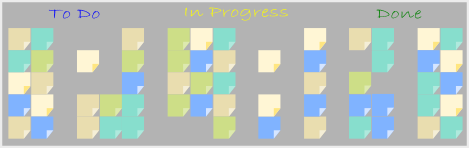
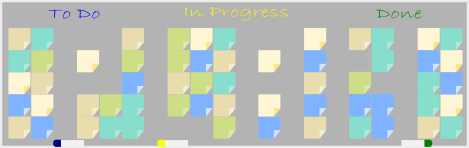
added jan and feb stickers to post

Changed region(s): [[0.8358, 0.9189, 0.9254, 1.0], [0.3284, 0.9189, 0.4179, 1.0], [0.0896, 0.9459, 0.1791, 1.0]]

diff --git a/content/post/sticker-driven-maintenance/index.md b/content/post/sticker-driven-maintenance/index.md
@@ -26,7 +26,7 @@ image:
 #   E.g. `projects = ["internal-project"]` references `content/project/deep-learning/index.md`.
 #   Otherwise, set `projects = []`.
 projects: [""]
-rmd_hash: ab697101cf217bb9
+rmd_hash: 810ee3d8b20baca7
 
 ---
 
@@ -74,6 +74,22 @@ Alternatively, your code "naughty or nice"? Santa makes his list and checks it t
 For R users, this could be a great time to learn about testing packages such as [{testthat}](https://testthat.r-lib.org/) or [{tinytest}](https://cran.r-project.org/web/packages/tinytest/index.html) or related packages like [{assertr}](https://cran.r-project.org/web/packages/assertr/index.html) or [{pointblank}](https://rich-iannone.github.io/pointblank/index.html) for a variety of static or live testing and checks.
 
 ![](images/naughty-nice-badge.png)
+
+### January
+
+Much like hackathons tend to be biased towards novelty, they are more broadly also focus on *doing* instead of *thinking*. In January, we have a new year, new resolutions, and an old and mature toolkit. Gather around a whiteboard as a team *without* building a thing to reassess priorities and simply make a plan. Think about what work needs to be done and how the tools and packages that you *already have* can be re-used instead of reinvented.
+
+![](images/plan-grid.png)
+
+### February
+
+Being an open-source maintainer is a long-term relationship, and many open souce tools lack that "special someone" to support them when they break and help them to be their best. When codebases have few contributors or maintainers, they are more susceptible to going stale. Take the opportunity to do some "matchmaking" between orphaned packages and potential maintainers or, alternatively, help new maintainers get into relationships with existing projects.
+
+This GitHub-esque grid asks, will you "Be Mine"? Or alternatively, a candy heart cuts right to the chase as asks to be maintained.
+
+![](images/hearts-grid.png)
+
+![](images/heart-badge.png)
 
 ### March
 
